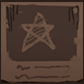
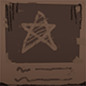
制作战斗界面

diff --git a/client/src/view/ElemView.ts b/client/src/view/ElemView.ts
@@ -7,9 +7,9 @@ class ElemView extends egret.DisplayObjectContainer {
     private showLayer:egret.DisplayObjectContainer; // 装入所有显示内容
     private opLayer:egret.Bitmap; // 专门用于接收操作事件
     private elemImg:egret.Bitmap; // 元素图
-    private markedImg:egret.Bitmap; // 被标记的怪物上面盖一层
     private banImg:egret.Bitmap; // 禁止符号
     private cdImg:egret.Bitmap; // cd 计数
+    private coveredImg:egret.Bitmap; // 标记时，要在上面盖上牌背
 
     private powerBg:egret.Bitmap;
     private shieldBg:egret.Bitmap;
@@ -27,8 +27,8 @@ class ElemView extends egret.DisplayObjectContainer {
         this.shieldBg = ViewUtils.createBitmapByName("monsterShieldBg_png");
 
         this.elemImg = new egret.Bitmap(); // 元素图
-        this.markedImg = ViewUtils.createBitmapByName("marked_png"); // 被标记怪物上面盖一层
         this.banImg = ViewUtils.createBitmapByName("ban_png"); // 禁止符号
+        this.coveredImg = ViewUtils.createBitmapByName("uncoverable_png");
         this.cdImg = new egret.Bitmap(); // cd 计数
         this.showLayer = new egret.DisplayObjectContainer(); // 显示层
         this.addChild(this.showLayer);
@@ -97,9 +97,7 @@ class ElemView extends egret.DisplayObjectContainer {
         var e = this.map.getElemAt(this.gx, this.gy);
         switch (g.status) {
             case GridStatus.Marked: // 被标记
-            case GridStatus.Uncovered: // 被揭开
-                // Utils.assert(g.status != GridStatus.Marked || !e || e instanceof Monster, "only monster could be marked"); // 道具等也需要可以被标记             
-                
+            case GridStatus.Uncovered: { // 被揭开
                 if (e && !e.attrs.invisible) { // 有元素显示元素图片
                     this.elemImg = ViewUtils.createBitmapByName(e.getElemImgRes() + "_png");
                     this.showLayer.addChild(this.elemImg);
@@ -145,9 +143,6 @@ class ElemView extends egret.DisplayObjectContainer {
                                 this.showLayer.addChild(this.power);
                             };
                         })
-
-                        // if (g.status == GridStatus.Marked) // 被标记怪物上面盖一层
-                        //     this.showLayer.addChild(this.markedImg);
                     } else {    
                         if (e.attrs.showCDNum && e.cd > 0) { // 显示 cd 计数
                             ViewUtils.setTexName(this.cdImg, "cd" + e.cd + "_png");
@@ -158,13 +153,34 @@ class ElemView extends egret.DisplayObjectContainer {
                         if (!e.attrs.invisible && !this.map.isGenerallyValid(e.pos.x, e.pos.y) && e.type != "Hole")
                             this.showLayer.addChild(this.banImg);
                     }
-                    if (g.status == GridStatus.Marked) // 被标记的格子上面盖一层
-                        this.showLayer.addChild(this.markedImg);
                 }
+            }
             break;
         }
 
         this.refreshDropItem(); // 刷新掉落物品显示
+
+        if (g.status == GridStatus.Marked) {
+            var colorFilter = new egret.ColorMatrixFilter([
+                0.2, 0.3, 0.2, 0, 0,
+                0.2, 0.3, 0.2, 0, 0,
+                0.2, 0.3, 0.2, 0, 0,
+                0, 0, 0, 1, 0
+            ]);
+
+            this.addChild(this.coveredImg);
+            this.setChildIndex(this.coveredImg, 0);
+            this.coveredImg.x = (this.width - this.coveredImg.width) / 2;
+            this.coveredImg.y = (this.height - this.coveredImg.height) / 2;
+            this.showLayer.filters = [colorFilter];
+            this.showLayer.blendMode = egret.BlendMode.ADD;
+            this.showLayer.alpha = 0.5;
+        } else {
+            if (this.contains(this.coveredImg)) this.removeChild(this.coveredImg);
+            this.showLayer.filters = undefined;
+            this.showLayer.blendMode = egret.BlendMode.NORMAL;
+            this.showLayer.alpha = 1;
+        }
         
         var w = this.width;
         var h = this.height;
@@ -177,7 +193,7 @@ class ElemView extends egret.DisplayObjectContainer {
             this.showLayer.rotation = 0;
         }
 
-        var arr = [this.opLayer, this.elemImg, this.banImg, this.markedImg, this.cdImg];
+        var arr = [this.opLayer, this.elemImg, this.banImg, this.cdImg];
         arr.forEach((a) => {
             a.alpha = 1;
             a.x = 0;

diff --git a/client/src/view/GridView.ts b/client/src/view/GridView.ts
@@ -62,7 +62,11 @@ class GridView extends egret.DisplayObjectContainer {
         var w = this.width;
         var h = this.height;
         var arr = [this.blockedImg, this.coveredImg, this.uncoverableImg];
-        arr.forEach((a) => { a.alpha = 1; a.x = 0; a.y = 0; a.width = w; a.height = h; });
+        arr.forEach((a) => {
+            a.alpha = 1;
+            a.x = (w - a.width) / 2;
+            a.y = (h - a.height) / 2;
+        });
     }
 
     public clear() {

diff --git a/client/src/view/ViewUtils.ts b/client/src/view/ViewUtils.ts
@@ -57,10 +57,10 @@ class ViewUtils {
         }
         
         var colorMatrix = [
-            0.5,0,0,0,0,
-            0.5,0,0,0,0,
-            0.5,0,0,0,0,
-            1,0,0,0,0
+            0.3, 0.4, 0.3, 0, 0,
+            0.3, 0.4, 0.3, 0, 0,
+            0.3, 0.4, 0.3, 0, 0,
+            0, 0, 0, 1, 0
         ];
         var colorFlilter = new egret.ColorMatrixFilter(colorMatrix);
         e.filters = [colorFlilter];

diff --git a/common/logic/player/Occupation.ts b/common/logic/player/Occupation.ts
@@ -19,7 +19,7 @@ class Occupation {
     // 护士
     static makeNurse(p:Player):Player {
         p.addBuff(new BuffNurse()); // 职业buff
-        p.addRelic(<Relic>ElemFactory.create("MedicineBox")); // 初始遗物
+        p.addRelic(<Relic>ElemFactory.create("HorticultureMaster")); // 初始遗物
         p.addItem(<Prop>ElemFactory.create("HpCapsule")); // 初始物品
         return p;
     }
